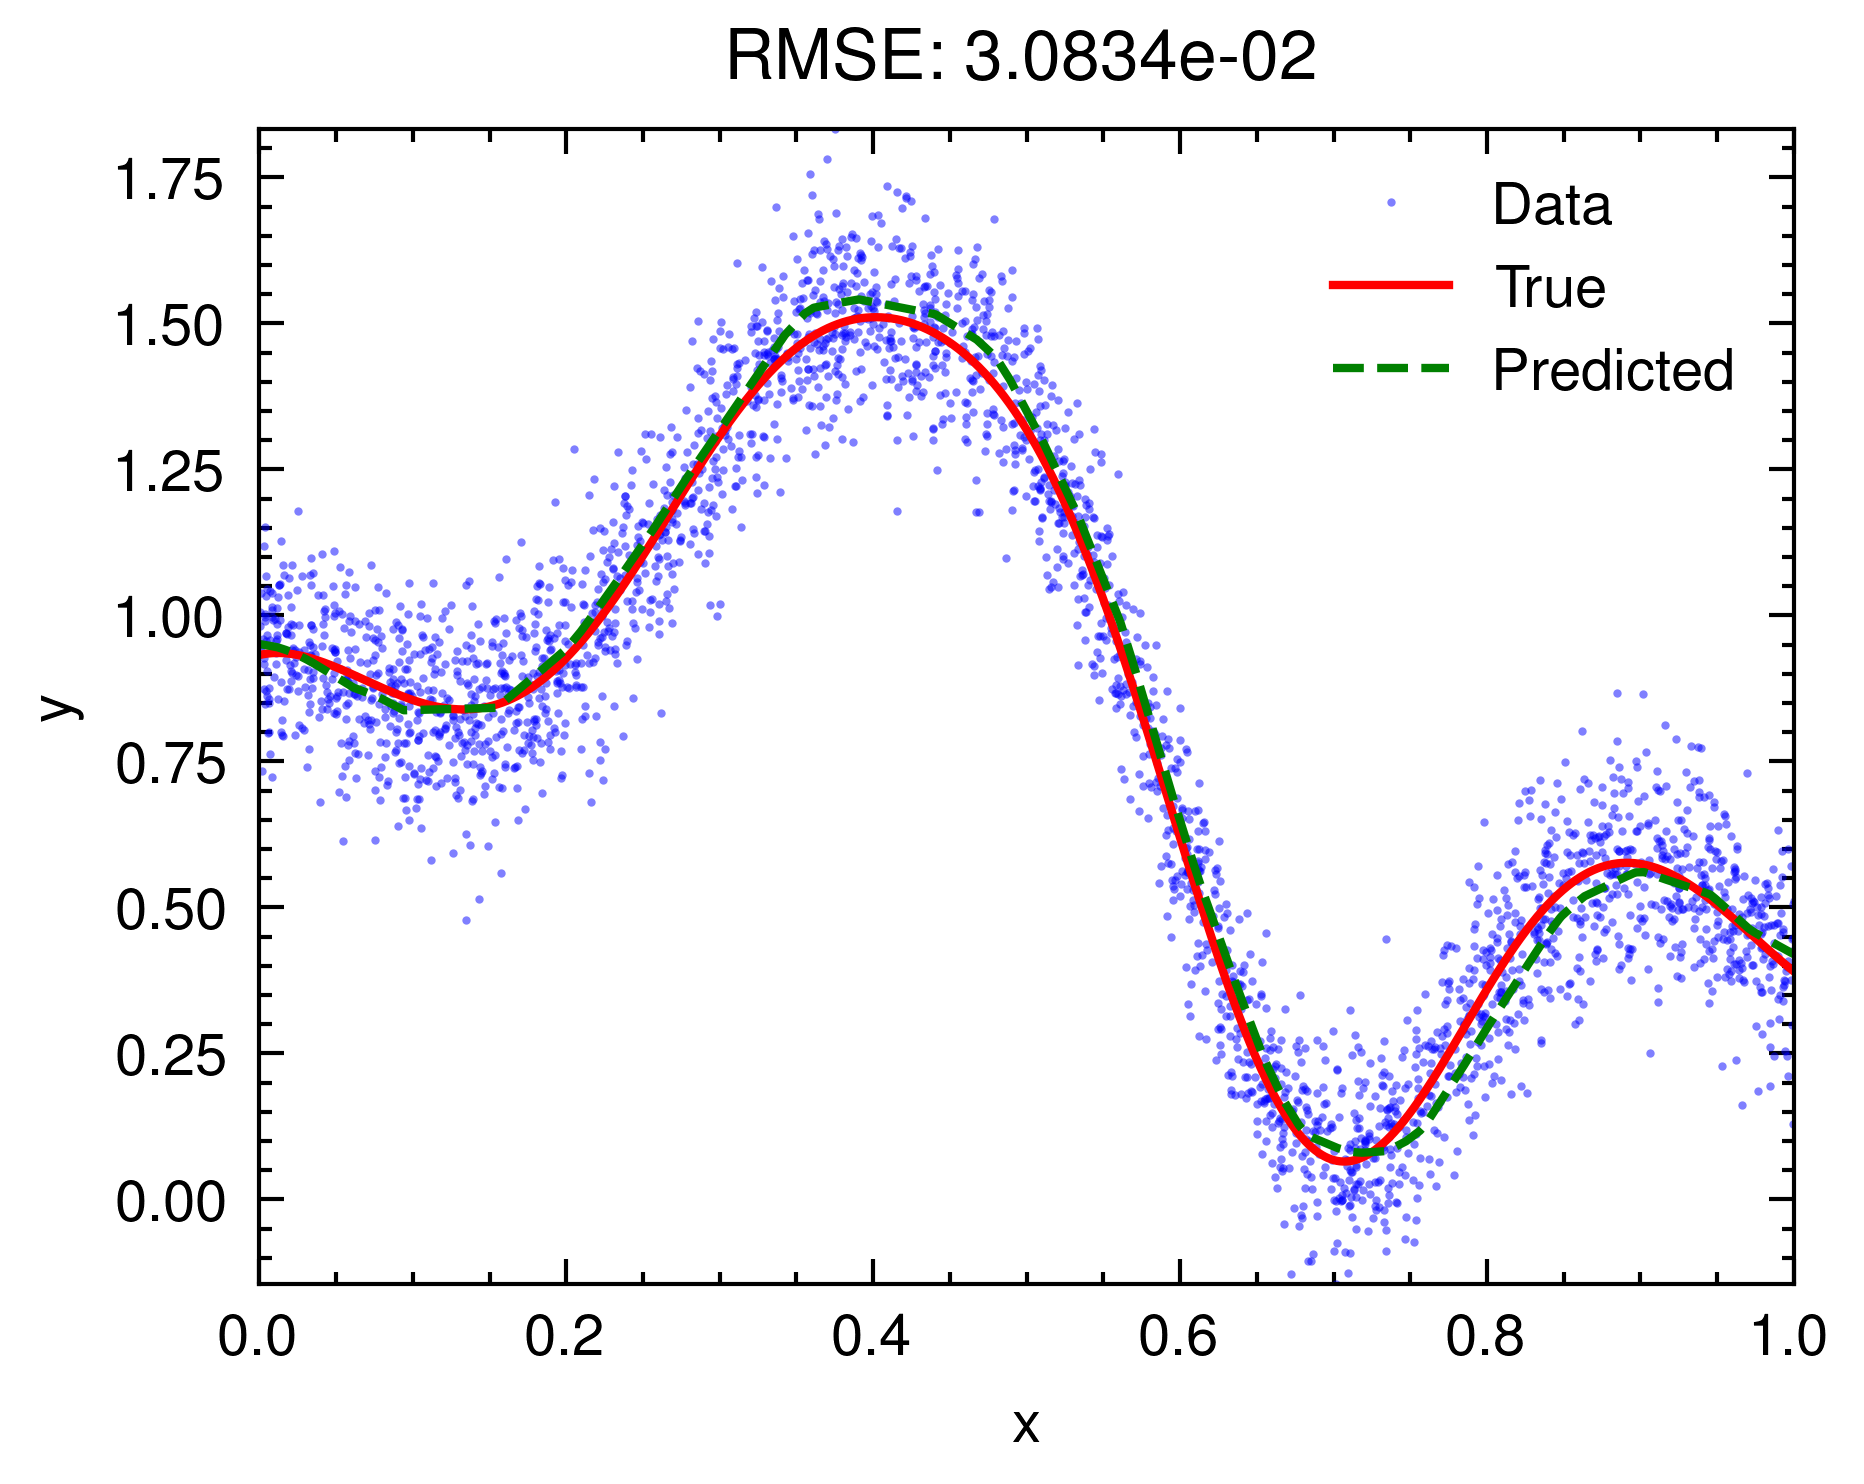
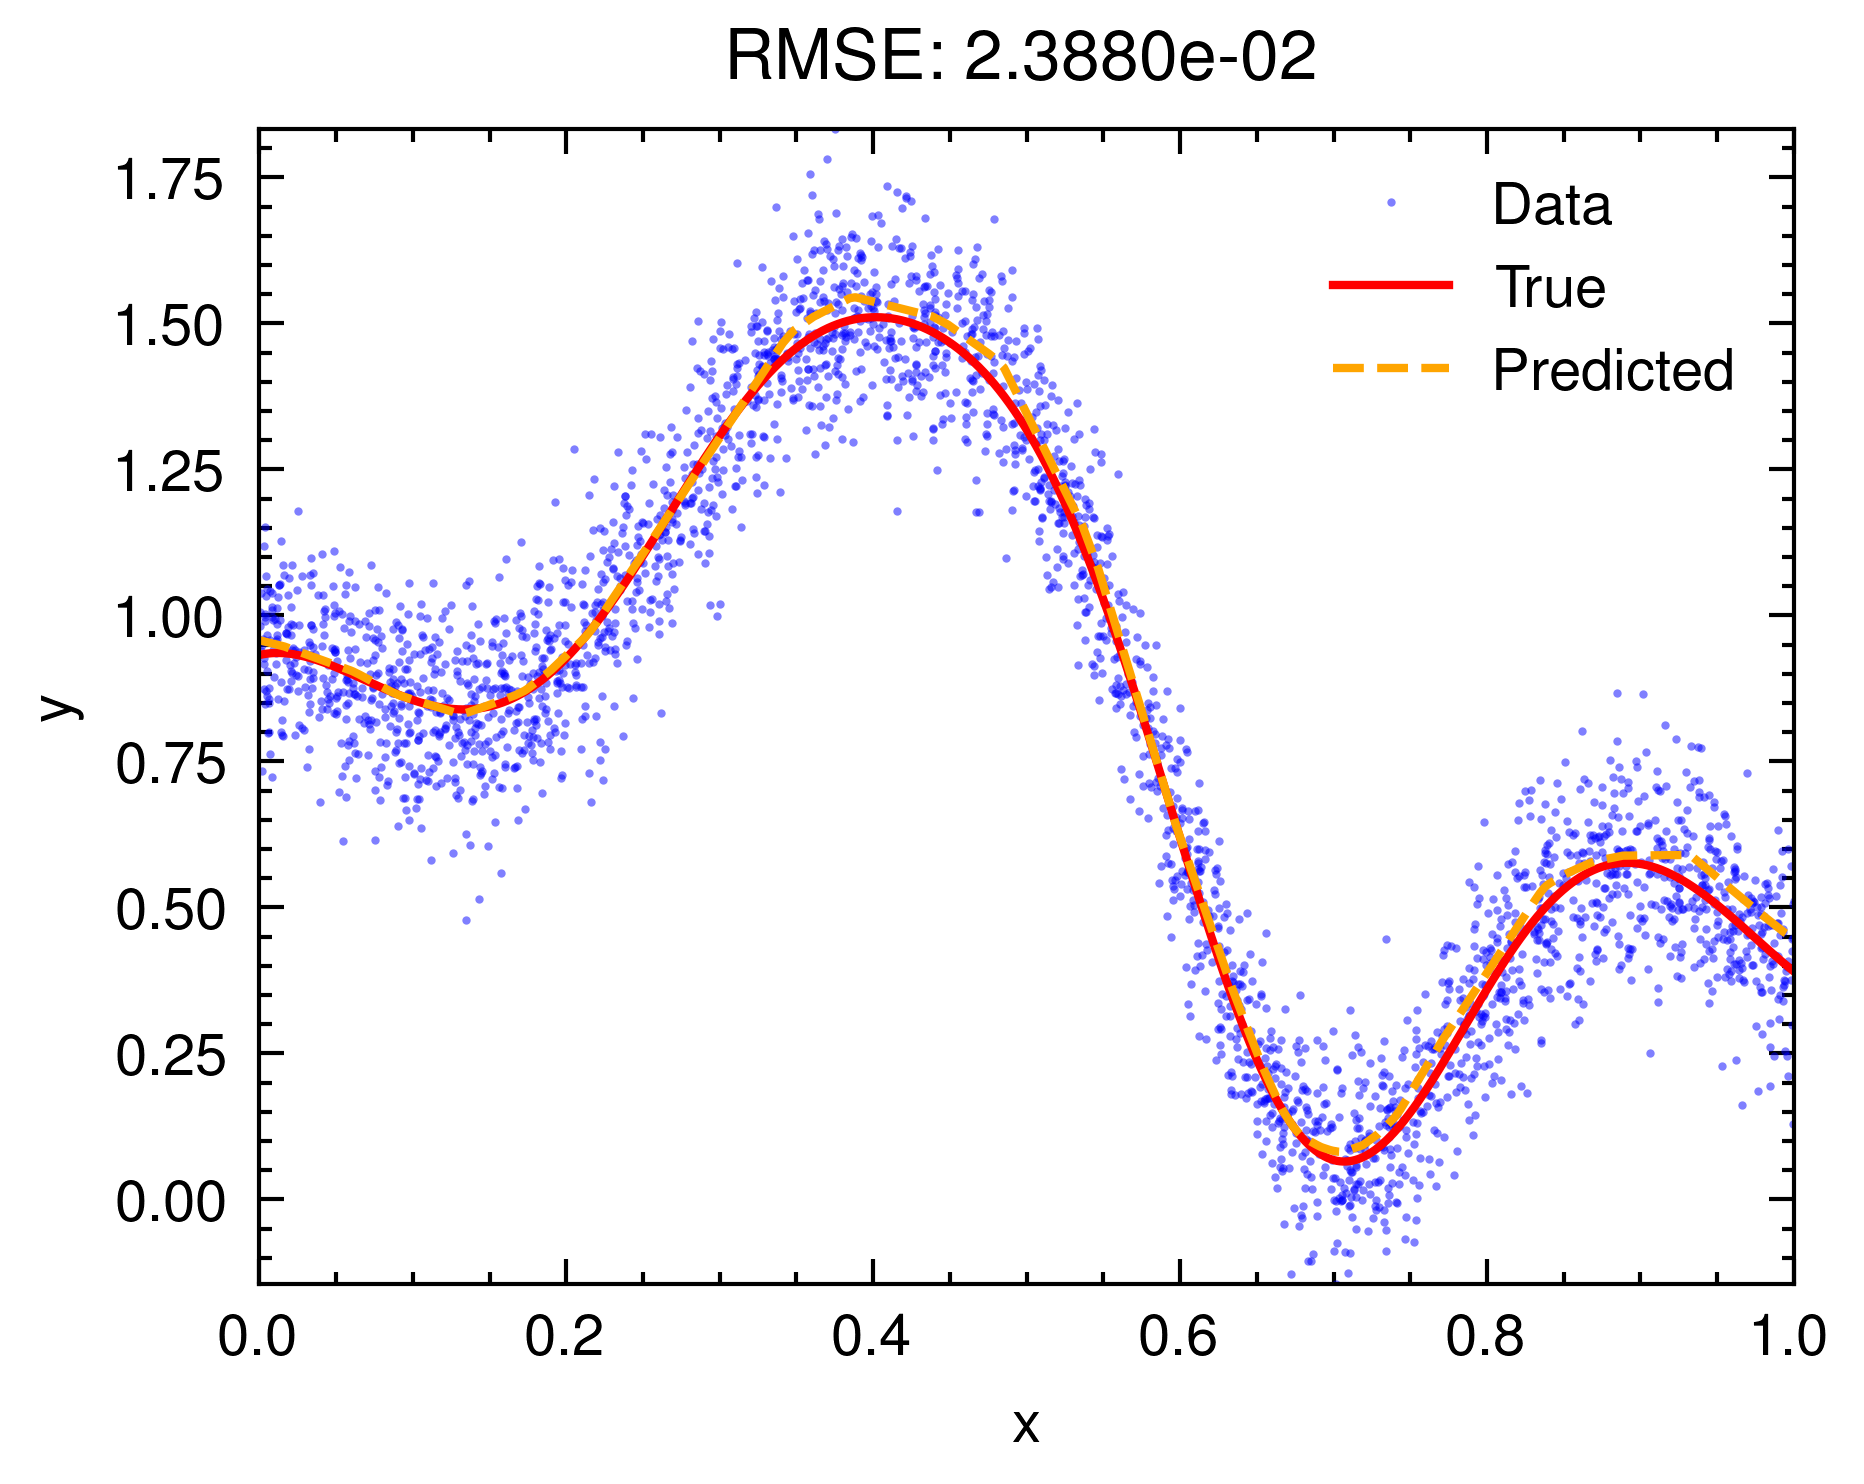
Update plot style

diff --git a/main.py b/main.py
@@ -93,7 +93,7 @@ if __name__ == "__main__":
         fig, ax = plt.subplots()
         ax.plot(x_data, y_data, '.', label="Data", color='blue', markersize=2, markeredgewidth=0, alpha=0.5)
         ax.plot(x_true, y_true, label="True", color='red')
-        ax.plot(x_test, y_test, '--', label="Predicted", color='green')
+        ax.plot(x_test, y_test, '--', label="Predicted", color='orange')
         ax.legend()
         ax.set_xlabel("x")
         ax.set_ylabel("y")
